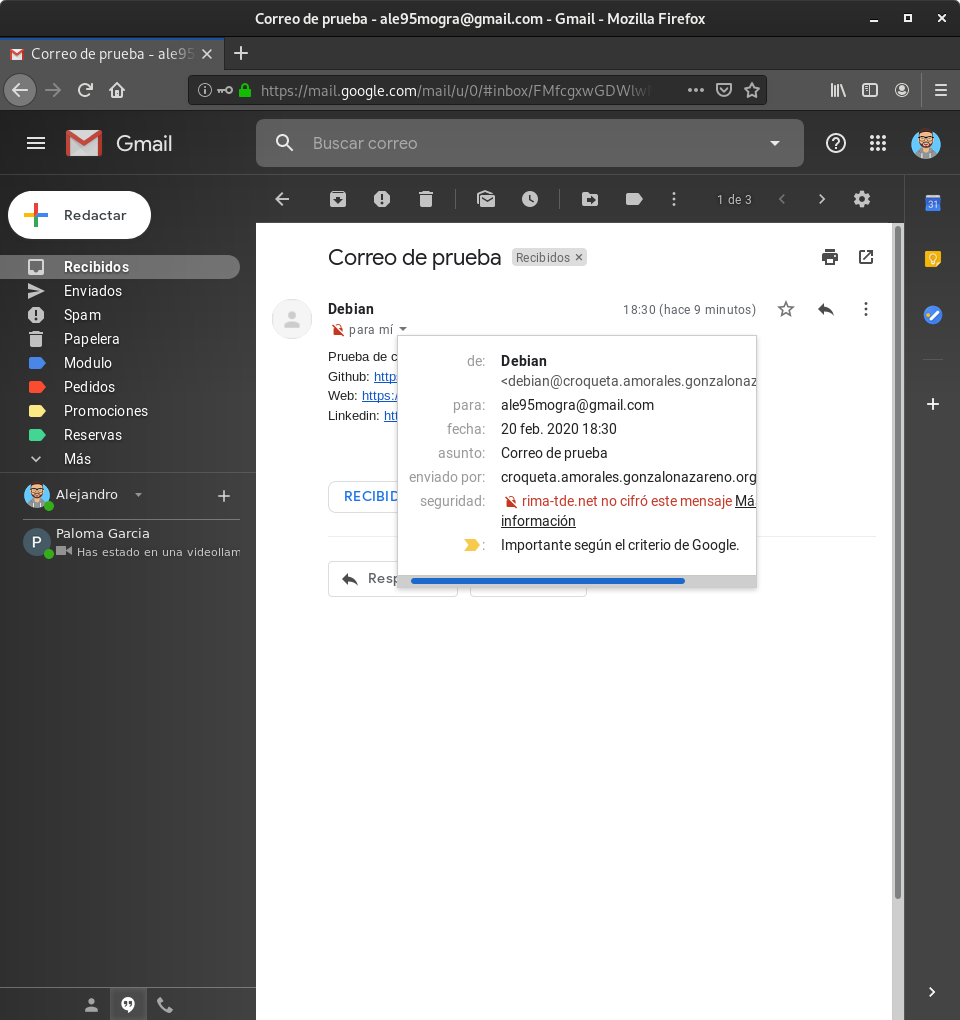
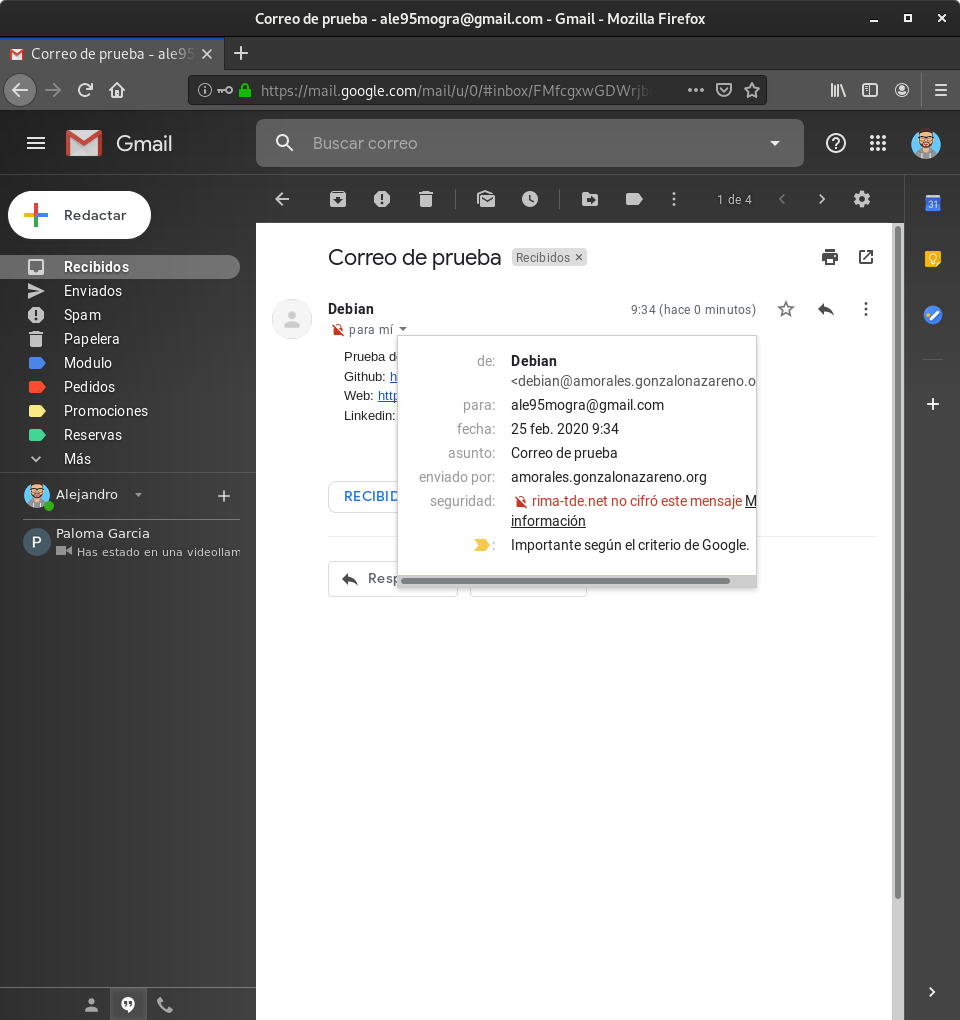
Añadiendo ficheros

Changed region(s): [[0.4062, 0.3343, 0.7812, 0.5775], [0.3438, 0.3343, 0.4062, 0.4255]]

diff --git a/Servidor_de_Correo.md b/Servidor_de_Correo.md
@@ -54,7 +54,7 @@ sudo apt install postfix
  │                                                                     │ 
  │ System mail name:                                                   │ 
  │                                                                     │ 
- │ croqueta.amorales.gonzalonazareno.org                               │ 
+ │ amorales.gonzalonazareno.org                               │ 
  │                                                                     │ 
  │                  <Ok>                      <Cancel>                 │ 
  │                                                                     │ 
@@ -74,9 +74,9 @@ Editamos el fichero `/etc/mailname` y ponemos el nombre del correo que queremos 
 amorales.gonzalonazareno.org
 ~~~
 
->**NOTA**: He comprobado que aún cambiando el nombre en el fichero `/etc/mailname` el nombre que se muestra es el del hostname por un error de postfix.
+>**NOTA**: He comprobado que aún cambiando el nombre en el fichero `/etc/mailname` el nombre que se muestra es el del hostname por un error de postfix. Para solucionarlo tenemos que añadir en el fichero `/etc/hosts` una resolución de nombre en el localhost, `127.0.1.1       amorales.gonzalonazareno.org `.
 
-Vamos a reinicar el servicio de postfix
+Vamos a reinicar el servicio de postfix.
 ~~~
 sudo systemctl restart postfix.service
 ~~~
@@ -108,9 +108,9 @@ sudo tail /var/log/syslog
     Feb 20 17:26:55 croqueta systemd[1]: Started Postfix Mail Transport Agent (instance -).
     Feb 20 17:26:55 croqueta systemd[1]: Starting Postfix Mail Transport Agent...
     Feb 20 17:26:55 croqueta systemd[1]: Started Postfix Mail Transport Agent.
-    Feb 20 17:30:16 croqueta postfix/pickup[28307]: E594841F74: uid=1000 from=<debian@croqueta.amorales.gonzalonazareno.org>
-    Feb 20 17:30:16 croqueta postfix/cleanup[28345]: E594841F74: message-id=<20200220173016.E594841F74@croqueta.amorales.gonzalonazareno.org>
-    Feb 20 17:30:16 croqueta postfix/qmgr[28308]: E594841F74: from=<debian@croqueta.amorales.gonzalonazareno.org>, size=588, nrcpt=1 (queue active)
+    Feb 20 17:30:16 croqueta postfix/pickup[28307]: E594841F74: uid=1000 from=<debian@amorales.gonzalonazareno.org>
+    Feb 20 17:30:16 croqueta postfix/cleanup[28345]: E594841F74: message-id=<20200220173016.E594841F74@amorales.gonzalonazareno.org>
+    Feb 20 17:30:16 croqueta postfix/qmgr[28308]: E594841F74: from=<debian@amorales.gonzalonazareno.org>, size=588, nrcpt=1 (queue active)
     Feb 20 17:30:17 croqueta postfix/smtp[28347]: E594841F74: to=<ale95mogra@gmail.com>, relay=babuino-smtp.gonzalonazareno.org[192.168.203.3]:25, delay=0.11, delays=0.05/0.03/0.01/0.02, dsn=2.0.0, status=sent (250 2.0.0 Ok: queued as A83911BBFF)
 ~~~
 
@@ -150,7 +150,7 @@ mail
     Date: Thu, 20 Feb 2020 18:47:46 +0100
     Message-ID: <CANRnTqxtwRzjxEb2LDiyURjXTgwZ=bCCk1yP+HXRzniYJd4akA@mail.gmail.com>
     Subject: Prueba desde fuera
-    To: Debian <debian@croqueta.amorales.gonzalonazareno.org>
+    To: Debian <debian@amorales.gonzalonazareno.org>
     Content-Type: multipart/alternative; boundary="00000000000056ea38059f058177"
 
     --00000000000056ea38059f058177
@@ -163,7 +163,7 @@ mail
 Comprobamos los log
 ~~~
 sudo tail /var/log/syslog
-    Feb 20 17:30:16 croqueta postfix/qmgr[28308]: E594841F74: from=<debian@croqueta.amorales.gonzalonazareno.org>, size=588, nrcpt=1 (queue active)
+    Feb 20 17:30:16 croqueta postfix/qmgr[28308]: E594841F74: from=<debian@amorales.gonzalonazareno.org>, size=588, nrcpt=1 (queue active)
     Feb 20 17:30:17 croqueta postfix/smtp[28347]: E594841F74: to=<ale95mogra@gmail.com>, relay=babuino-smtp.gonzalonazareno.org[192.168.203.3]:25, delay=0.11, delays=0.05/0.03/0.01/0.02, dsn=2.0.0, status=sent (250 2.0.0 Ok: queued as A83911BBFF)
     Feb 20 17:30:17 croqueta postfix/qmgr[28308]: E594841F74: removed
     Feb 20 17:47:39 croqueta postfix/smtpd[28531]: connect from babuino-smtp.gonzalonazareno.org[192.168.203.3]
@@ -171,7 +171,7 @@ sudo tail /var/log/syslog
     Feb 20 17:47:39 croqueta postfix/cleanup[28537]: C6D3741F73: message-id=<CANRnTqxtwRzjxEb2LDiyURjXTgwZ=bCCk1yP+HXRzniYJd4akA@mail.gmail.com>
     Feb 20 17:47:39 croqueta postfix/qmgr[28308]: C6D3741F73: from=<ale95mogra@gmail.com>, size=3592, nrcpt=1 (queue active)
     Feb 20 17:47:39 croqueta postfix/smtpd[28531]: disconnect from babuino-smtp.gonzalonazareno.org[192.168.203.3] ehlo=1 mail=1 rcpt=1 data=1 quit=1 commands=5
-    Feb 20 17:47:39 croqueta postfix/local[28538]: C6D3741F73: to=<debian@croqueta.amorales.gonzalonazareno.org>, relay=local, delay=0.06, delays=0.03/0.01/0/0.01, dsn=2.0.0, status=sent (delivered to mailbox)
+    Feb 20 17:47:39 croqueta postfix/local[28538]: C6D3741F73: to=<debian@amorales.gonzalonazareno.org>, relay=local, delay=0.06, delays=0.03/0.01/0/0.01, dsn=2.0.0, status=sent (delivered to mailbox)
     Feb 20 17:47:39 croqueta postfix/qmgr[28308]: C6D3741F73: removed
 ~~~
 
